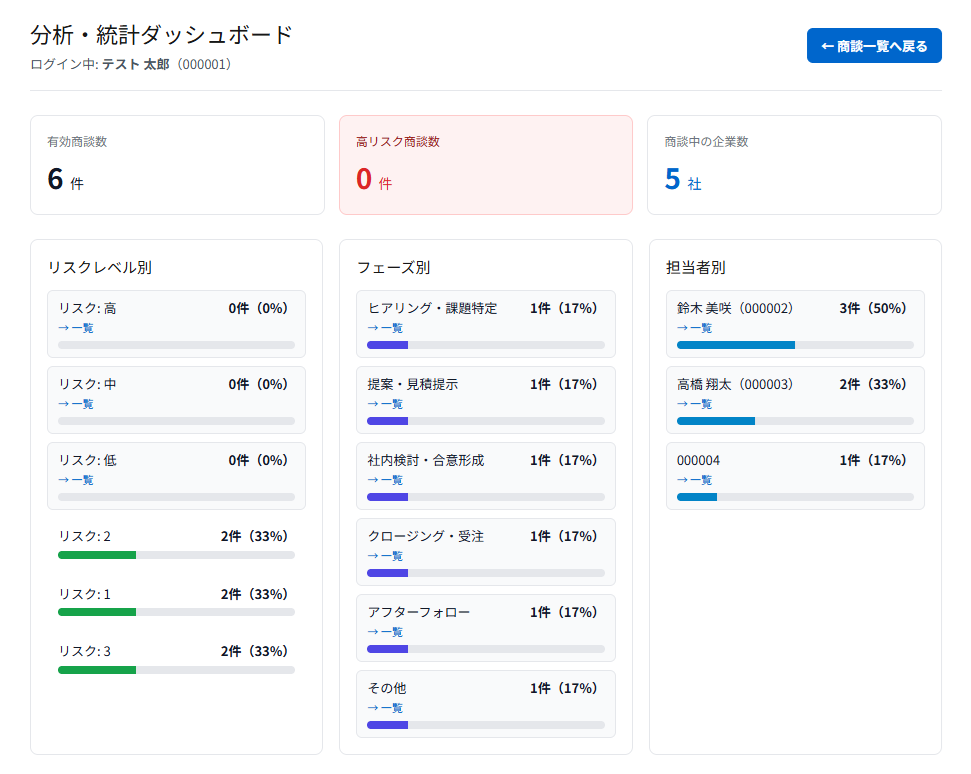
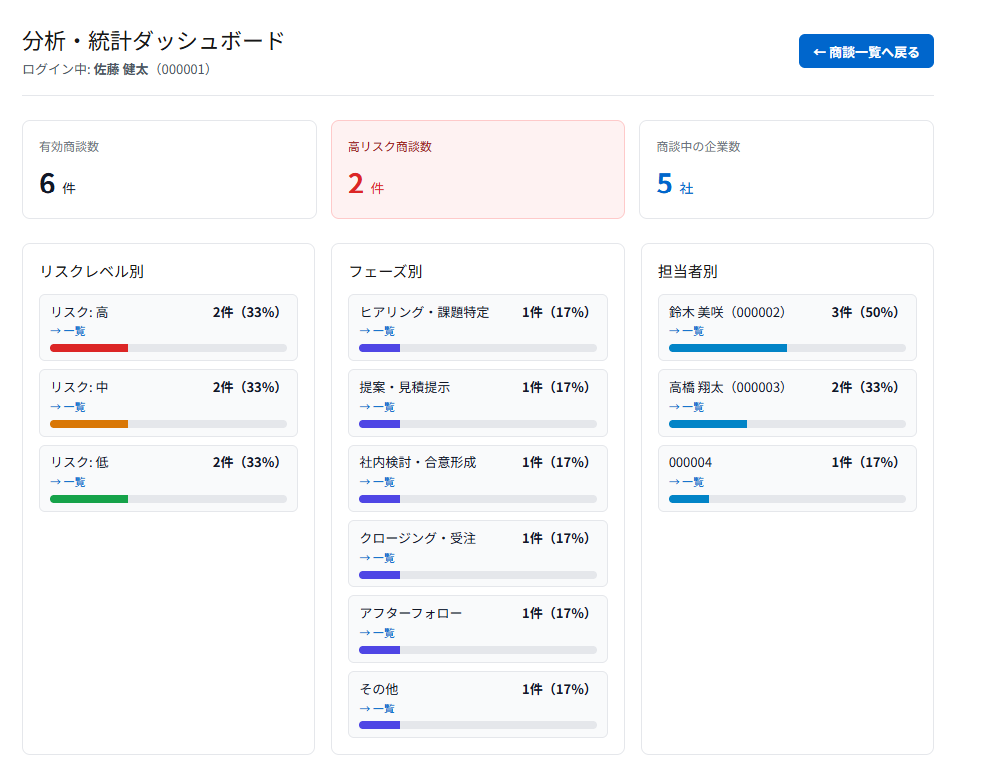
fix: リスクレベルの表記（高/中/低）を正規化し一覧・分析・詳細画面の表示と絞り込みを統一

diff --git a/app/page.tsx b/app/page.tsx
@@ -74,10 +74,24 @@ interface DealListItem {
 }
 
 /**
+ * DBやURLのリスク値（「1」「2」「3」「高い」「中」「低い」「高」「低」など）を「高」「中」「低」に正規化する関数。
+ */
+function normalizeRiskLevel(rawRisk: unknown): string {
+    const value = typeof rawRisk === 'string' ? rawRisk.trim() : String(rawRisk ?? '').trim();
+
+    if (value === '高' || value === '高い' || value === '1') return '高';
+    if (value === '中' || value === '2') return '中';
+    if (value === '低' || value === '低い' || value === '3') return '低';
+
+    return value;
+}
+
+/**
  * URLクエリのリスク指定値を検証し、「高」「中」「低」のいずれかであればそのまま返し、それ以外は空文字に正規化する関数。
  */
 function normalizeRiskParam(rawRisk: string | null): string {
-    return rawRisk === '高' || rawRisk === '中' || rawRisk === '低' ? rawRisk : '';
+    const normalized = normalizeRiskLevel(rawRisk);
+    return normalized === '高' || normalized === '中' || normalized === '低' ? normalized : '';
 }
 
 /**
@@ -108,22 +122,6 @@ function DashboardContent() {
     const [dateFrom, setDateFrom] = useState<string>('');
     const [dateTo, setDateTo] = useState<string>('');
     const [searchKeyword, setSearchKeyword] = useState<string>('');
-
-    useEffect(() => {
-        const nextRisk = normalizeRiskParam(searchParams.get('risk'));
-        const nextPhase = searchParams.get('phase')?.trim() ?? '';
-        const nextEmployee = searchParams.get('employee')?.trim() ?? '';
-
-        if (!nextRisk && !nextPhase && !nextEmployee) return;
-
-        const timer = window.setTimeout(() => {
-            if (nextRisk) setSelectedRiskLevel(nextRisk);
-            if (nextPhase) setSelectedPhaseCode(nextPhase);
-            if (nextEmployee) setSelectedEmployeeCode(nextEmployee);
-        }, 0);
-
-        return () => window.clearTimeout(timer);
-    }, [searchParams]);
 
     useEffect(() => {
         let active = true;
@@ -245,7 +243,7 @@ function DashboardContent() {
                     phase_name: phaseMap.get(phaseCode) ?? phaseCode,
                     summary: d.summary ?? null,
                     next_action: d.next_action ?? null,
-                    risk_level: d.risk_level,
+                    risk_level: normalizeRiskLevel(d.risk_level),
                 };
             });
 

diff --git a/app/deals/[id]/page.tsx b/app/deals/[id]/page.tsx
@@ -83,6 +83,19 @@ function normalizeText(value: unknown): string {
 }
 
 /**
+ * DBのリスク値（「1」「2」「3」「高い」「中」「低い」「高」「低」など）を「高」「中」「低」に正規化する関数。
+ */
+function normalizeRiskLevel(rawRisk: unknown): string {
+    const value = typeof rawRisk === 'string' ? rawRisk.trim() : String(rawRisk ?? '').trim();
+
+    if (value === '高' || value === '高い' || value === '1') return '高';
+    if (value === '中' || value === '2') return '中';
+    if (value === '低' || value === '低い' || value === '3') return '低';
+
+    return value;
+}
+
+/**
  * 商談メモの入力値（必須・最大文字数）を検証し、問題があればエラーメッセージを返す関数。
  */
 function validateRawMemo(value: string): string | null {
@@ -303,7 +316,7 @@ function DealDetailContent() {
             const normalizedChargeId = normalizeText(dealData.person_in_charge_employee_id) || null;
             const normalizedEditorId = normalizeText(dealData.last_edited_employee_id) || null;
             const normalizedPhaseId = normalizeText(dealData.phase_code);
-            const normalizedRisk = normalizeText(dealData.risk_level);
+            const normalizedRisk = normalizeRiskLevel(dealData.risk_level);
 
             const enriched: DealDetail = {
                 ...dealData,

diff --git a/app/analytics/page.tsx b/app/analytics/page.tsx
@@ -69,6 +69,19 @@ interface FilterQuery {
 }
 
 /**
+ * DBのリスク値（「1」「2」「3」「高い」「中」「低い」「高」「低」など）を「高」「中」「低」に正規化する関数。
+ */
+function normalizeRiskLevel(rawRisk: unknown): string {
+    const value = typeof rawRisk === 'string' ? rawRisk.trim() : String(rawRisk ?? '').trim();
+
+    if (value === '高' || value === '高い' || value === '1') return '高';
+    if (value === '中' || value === '2') return '中';
+    if (value === '低' || value === '低い' || value === '3') return '低';
+
+    return value;
+}
+
+/**
  * 指定されたキーが絞り込み対象のリスクレベル（「高」「中」「低」）であるかを判定する型ガード関数。
  */
 function isFilterableRiskLevel(key: string): key is '高' | '中' | '低' {
@@ -171,7 +184,7 @@ export default function AnalyticsDashboardPage() {
                     ? String(d.person_in_charge_employee_id).trim()
                     : null,
                 phase_code: String(d.phase_code ?? '').trim(),
-                risk_level: String(d.risk_level ?? '').trim(),
+                risk_level: normalizeRiskLevel(d.risk_level),
             }));
             const phases: DealPhase[] = (phasesData ?? []).map((p) => ({
                 ...p,
